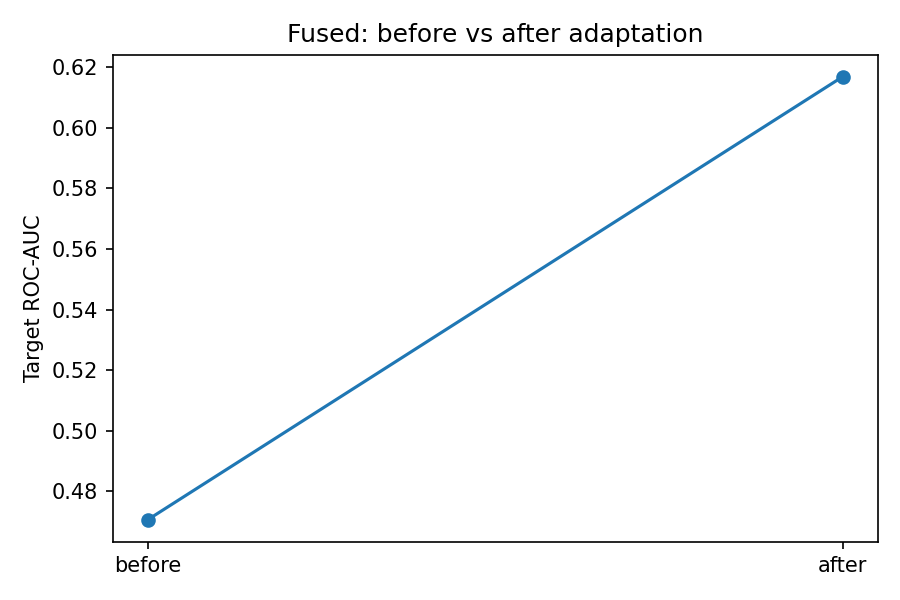
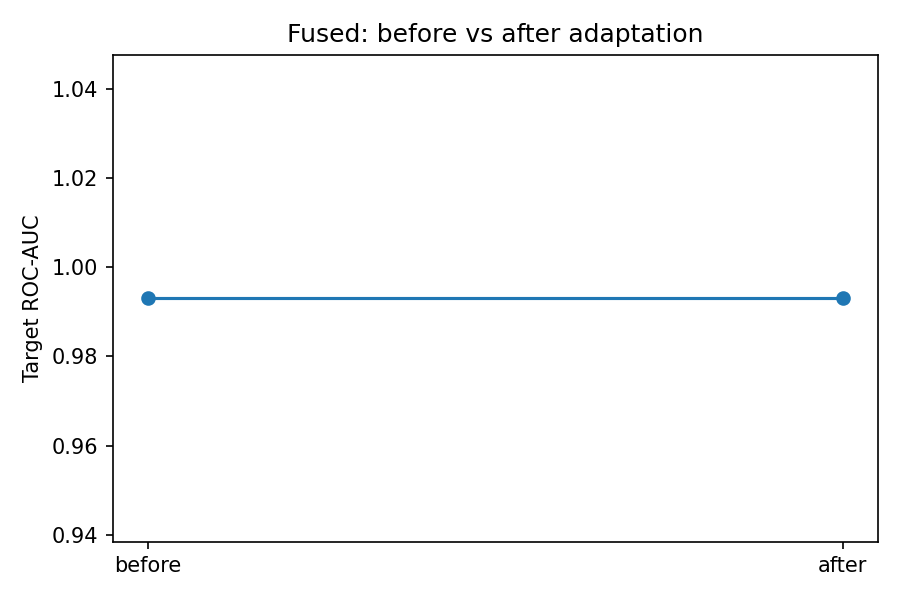
fix: old ablation replaced

diff --git a/src/build_ablation_summary.py b/src/build_ablation_summary.py
@@ -5,64 +5,80 @@ import pandas as pd
 import matplotlib.pyplot as plt
 
 
-DAY5_CSV = Path("experiments/day5_evaluation/day5_summary.csv")
-DAY6_MINIMAL_JSON = Path("experiments/ablation_inputs/day6_minimal_sfda_summary.json")
-DAY7_CONSISTENCY_JSON = Path("experiments/ablation_inputs/day7_consistency_summary.json")
-
-OUT_DIR = Path("experiments/day8_ablation")
+OUT_DIR = Path("experiments/ablation_summary")
 OUT_DIR.mkdir(parents=True, exist_ok=True)
 
+SOURCE_ONLY_DIR_CANDIDATES = [
+    Path("experiments/source_only_training"),
+    Path("experiments/source_only_supervised"),
+]
 
-def load_day5_rows():
-    if not DAY5_CSV.exists():
-        raise FileNotFoundError(f"Missing file: {DAY5_CSV}")
-
-    df = pd.read_csv(DAY5_CSV)
-
-    rows = []
-    for _, row in df.iterrows():
-        rows.append(
-            {
-                "experiment": row["variant"],
-                "stage": "source_only",
-                "source_val_roc_auc": row["source_val_roc_auc"],
-                "target_test_roc_auc": row["target_test_roc_auc"],
-                "source_val_pr_auc": row["source_val_pr_auc"],
-                "target_test_pr_auc": row["target_test_pr_auc"],
-                "source_val_f1": row["source_val_f1"],
-                "target_test_f1": row["target_test_f1"],
-                "delta_roc_auc": row["delta_roc_auc"],
-                "delta_pr_auc": row["delta_pr_auc"],
-            }
-        )
-    return rows
+SFDA_DIR_CANDIDATES = [
+    Path("experiments/source_free_adaptation"),
+    Path("experiments/day6_sfda"),
+]
 
 
-def load_sfda_json(path: Path, experiment_name: str, stage_name: str):
+def resolve_existing_dir(candidates):
+    for path in candidates:
+        if path.exists():
+            return path
+    raise FileNotFoundError(
+        "None of the candidate directories exist:\n"
+        + "\n".join(str(p) for p in candidates)
+    )
+
+
+def load_json(path: Path):
     if not path.exists():
-        return None
-
+        raise FileNotFoundError(f"Missing file: {path}")
     with open(path, "r", encoding="utf-8") as f:
-        data = json.load(f)
+        return json.load(f)
 
-    row = {
-        "experiment": experiment_name,
-        "stage": stage_name,
-        "source_val_roc_auc": data["after"]["source_val"]["roc_auc"],
-        "target_test_roc_auc": data["after"]["target_test"]["roc_auc"],
-        "source_val_pr_auc": data["after"]["source_val"]["pr_auc"],
-        "target_test_pr_auc": data["after"]["target_test"]["pr_auc"],
-        "source_val_f1": data["after"]["source_val"]["f1"],
-        "target_test_f1": data["after"]["target_test"]["f1"],
-        "delta_roc_auc": data["after"]["source_val"]["roc_auc"] - data["after"]["target_test"]["roc_auc"],
-        "delta_pr_auc": data["after"]["source_val"]["pr_auc"] - data["after"]["target_test"]["pr_auc"],
+
+def build_source_only_row(source_only_dir: Path, variant: str):
+    summary_path = source_only_dir / variant / "summary.json"
+    data = load_json(summary_path)
+
+    return {
+        "experiment": variant,
+        "stage": "source_only",
+        "source_val_roc_auc": data["source_val"]["roc_auc"],
+        "target_test_roc_auc": data["target_test"]["roc_auc"],
+        "source_val_pr_auc": data["source_val"]["pr_auc"],
+        "target_test_pr_auc": data["target_test"]["pr_auc"],
+        "source_val_f1": data["source_val"]["f1"],
+        "target_test_f1": data["target_test"]["f1"],
+        "delta_roc_auc": data["source_val"]["roc_auc"] - data["target_test"]["roc_auc"],
+        "delta_pr_auc": data["source_val"]["pr_auc"] - data["target_test"]["pr_auc"],
     }
-    return row
+
+
+def build_sfda_row(sfda_dir: Path, variant: str = "fused", stage_name: str = "sfda_minimal"):
+    summary_path = sfda_dir / variant / "summary.json"
+    data = load_json(summary_path)
+
+    after = data["after"]
+
+    return {
+        "experiment": variant,
+        "stage": stage_name,
+        "source_val_roc_auc": after["source_val"]["roc_auc"],
+        "target_test_roc_auc": after["target_test"]["roc_auc"],
+        "source_val_pr_auc": after["source_val"]["pr_auc"],
+        "target_test_pr_auc": after["target_test"]["pr_auc"],
+        "source_val_f1": after["source_val"]["f1"],
+        "target_test_f1": after["target_test"]["f1"],
+        "delta_roc_auc": after["source_val"]["roc_auc"] - after["target_test"]["roc_auc"],
+        "delta_pr_auc": after["source_val"]["pr_auc"] - after["target_test"]["pr_auc"],
+    }
 
 
 def plot_target_metrics(df: pd.DataFrame):
+    labels = df["experiment"] + " | " + df["stage"]
+
     plt.figure(figsize=(9, 5))
-    plt.bar(df["experiment"] + " | " + df["stage"], df["target_test_roc_auc"])
+    plt.bar(labels, df["target_test_roc_auc"])
     plt.xticks(rotation=30, ha="right")
     plt.ylabel("Target ROC-AUC")
     plt.title("Ablation summary: target ROC-AUC")
@@ -71,7 +87,7 @@ def plot_target_metrics(df: pd.DataFrame):
     plt.close()
 
     plt.figure(figsize=(9, 5))
-    plt.bar(df["experiment"] + " | " + df["stage"], df["target_test_pr_auc"])
+    plt.bar(labels, df["target_test_pr_auc"])
     plt.xticks(rotation=30, ha="right")
     plt.ylabel("Target PR-AUC")
     plt.title("Ablation summary: target PR-AUC")
@@ -85,7 +101,12 @@ def plot_source_vs_target(df: pd.DataFrame):
     for _, row in df.iterrows():
         label = f'{row["experiment"]} | {row["stage"]}'
         plt.scatter(row["source_val_roc_auc"], row["target_test_roc_auc"])
-        plt.text(row["source_val_roc_auc"], row["target_test_roc_auc"], label, fontsize=8)
+        plt.text(
+            row["source_val_roc_auc"],
+            row["target_test_roc_auc"],
+            label,
+            fontsize=8,
+        )
 
     plt.xlabel("Source ROC-AUC")
     plt.ylabel("Target ROC-AUC")
@@ -95,64 +116,61 @@ def plot_source_vs_target(df: pd.DataFrame):
     plt.close()
 
 
-def plot_fused_before_after():
-    # prefers Day7 consistency json if present
-    if DAY7_CONSISTENCY_JSON.exists():
-        with open(DAY7_CONSISTENCY_JSON, "r", encoding="utf-8") as f:
-            data = json.load(f)
+def plot_fused_before_after(sfda_dir: Path):
+    summary_path = sfda_dir / "fused" / "summary.json"
+    if not summary_path.exists():
+        return
 
-        labels = ["before", "after"]
-        target_roc = [
-            data["before"]["target_test"]["roc_auc"],
-            data["after"]["target_test"]["roc_auc"],
-        ]
-        target_pr = [
-            data["before"]["target_test"]["pr_auc"],
-            data["after"]["target_test"]["pr_auc"],
-        ]
+    data = load_json(summary_path)
 
-        plt.figure(figsize=(6, 4))
-        plt.plot(labels, target_roc, marker="o")
-        plt.ylabel("Target ROC-AUC")
-        plt.title("Fused: before vs after adaptation")
-        plt.tight_layout()
-        plt.savefig(OUT_DIR / "fused_before_after_target_roc.png", dpi=150)
-        plt.close()
+    labels = ["before", "after"]
+    target_roc = [
+        data["before"]["target_test"]["roc_auc"],
+        data["after"]["target_test"]["roc_auc"],
+    ]
+    target_pr = [
+        data["before"]["target_test"]["pr_auc"],
+        data["after"]["target_test"]["pr_auc"],
+    ]
 
-        plt.figure(figsize=(6, 4))
-        plt.plot(labels, target_pr, marker="o")
-        plt.ylabel("Target PR-AUC")
-        plt.title("Fused: before vs after adaptation")
-        plt.tight_layout()
-        plt.savefig(OUT_DIR / "fused_before_after_target_pr.png", dpi=150)
-        plt.close()
+    plt.figure(figsize=(6, 4))
+    plt.plot(labels, target_roc, marker="o")
+    plt.ylabel("Target ROC-AUC")
+    plt.title("Fused: before vs after adaptation")
+    plt.tight_layout()
+    plt.savefig(OUT_DIR / "fused_before_after_target_roc.png", dpi=150)
+    plt.close()
+
+    plt.figure(figsize=(6, 4))
+    plt.plot(labels, target_pr, marker="o")
+    plt.ylabel("Target PR-AUC")
+    plt.title("Fused: before vs after adaptation")
+    plt.tight_layout()
+    plt.savefig(OUT_DIR / "fused_before_after_target_pr.png", dpi=150)
+    plt.close()
 
 
 def main():
-    rows = load_day5_rows()
+    source_only_dir = resolve_existing_dir(SOURCE_ONLY_DIR_CANDIDATES)
+    sfda_dir = resolve_existing_dir(SFDA_DIR_CANDIDATES)
 
-    day6_row = load_sfda_json(
-        DAY6_MINIMAL_JSON,
-        experiment_name="fused",
-        stage_name="sfda_minimal",
-    )
-    if day6_row is not None:
-        rows.append(day6_row)
+    rows = [
+        build_source_only_row(source_only_dir, "raw_only"),
+        build_source_only_row(source_only_dir, "tfr_only"),
+        build_source_only_row(source_only_dir, "fused"),
+    ]
 
-    day7_row = load_sfda_json(
-        DAY7_CONSISTENCY_JSON,
-        experiment_name="fused",
-        stage_name="sfda_consistency",
-    )
-    if day7_row is not None:
-        rows.append(day7_row)
+    try:
+        rows.append(build_sfda_row(sfda_dir, variant="fused", stage_name="sfda_minimal"))
+    except FileNotFoundError:
+        pass
 
     summary_df = pd.DataFrame(rows)
     summary_df.to_csv(OUT_DIR / "ablation_summary.csv", index=False)
 
     plot_target_metrics(summary_df)
     plot_source_vs_target(summary_df)
-    plot_fused_before_after()
+    plot_fused_before_after(sfda_dir)
 
     print("Saved:", OUT_DIR / "ablation_summary.csv")
     print(summary_df)
